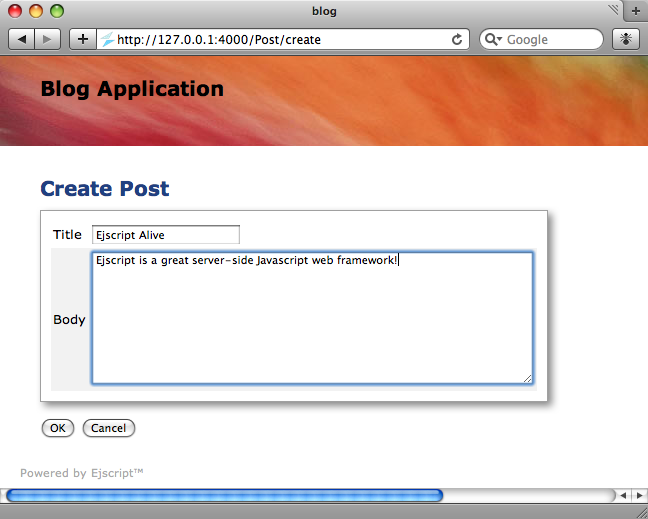
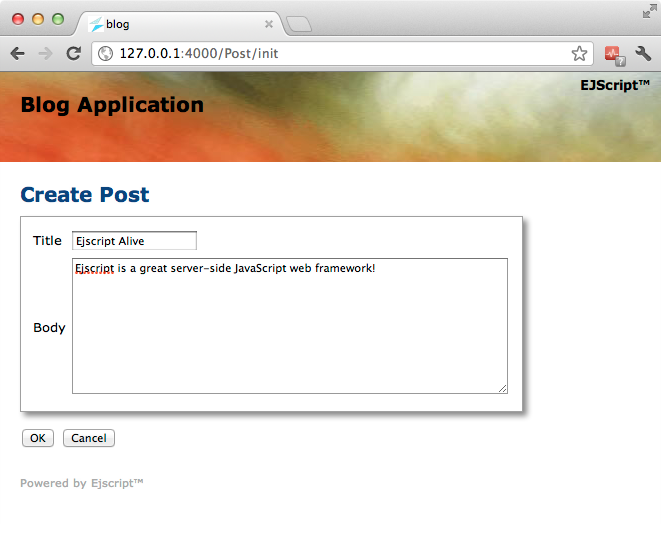
Bring web tour up to date

diff --git a/doc/guide/ejs/web/webTour.html b/doc/guide/ejs/web/webTour.html
@@ -73,7 +73,7 @@
             <p>Command sessions are presented in blue boxes. Output from the system is highlighted in yellow. Bold
             yellow is used to highlight some output of specific interest.</p>
             <h2 class="section"><a id="create"></a>Creating a New Application</h2>
-            <p>To create a new Ejscript application, you will use <b>mvc</b>, the Ejscript application generator
+            <p>To create a new Ejscript application, you will use <em>mvc</em>, the Ejscript application generator
             program. Type the following mvc command in a command terminal window:</p>
             <pre>
 <b>home&gt;</b> mvc -v generate app blog<b>
@@ -111,7 +111,7 @@ Change directory into your application directory: blog
 Then run the web server via: "mvc run"
 and point your browser at: http://localhost::4000/ to view your app.</b>
 </pre>
-            <p>This simple command accomplished quite a bit. It first created a new directory called <b>blog</b> for
+            <p>This simple command accomplished quite a bit. It first created a new directory called <em>blog</em> for
             the application, and then created subdirectories for various parts of the application. Initially, most of
             these directories are empty. They are used as your application grows.</p>
             <p>The command also created an <em>ejsrc</em> configuration file. This allows you to define a
@@ -181,12 +181,12 @@ mvc run
 appweb: 1: Starting host named: "127.0.0.1:4000"
 appweb: 1: HTTP services are ready (single-threaded)</b>
 </pre>
-            <p>Then enter <b>localhost:4000</b> in your browser. You should see your first application home
+            <p>Then enter <em>localhost:4000</em> in your browser. You should see your first application home
             page.</p><img class="bare-screen" src="../../../images/webtour-home.png" alt="" />
             <a id="hello"></a>
             <h2 class="section">Hello World</h2>
-            <p>The next step is to create a simple "Hello World" web page. Ejscript web pages have an <b>.ejs</b>
-            extension. Create a file called <em>hello.ejs</em> under the <b>web</b> directory with the following
+            <p>The next step is to create a simple "Hello World" web page. Ejscript web pages have an <em>.ejs</em>
+            extension. Create a file called <em>hello.ejs</em> in the top-level directory with the following
             content:</p>
             <pre>
 &lt;html&gt;
@@ -195,13 +195,13 @@ appweb: 1: HTTP services are ready (single-threaded)</b>
 &lt;/body&gt;
 </pre>
             <p>To view the "Hello" web page in your browser, type in the following url:
-            http://localhost:4000/web/hello.ejs.</p><img src="../../../images/webtour-hello.png" alt="hello" class=
+            http://localhost:4000/hello.ejs.</p><img src="../../../images/webtour-hello.png" alt="hello" class=
             "bare-screen" /> <a id="dynamic"></a>
             <h2 class="section">Dynamic Content</h2>
             <p>While that was fun, the output is static and boring, so let's add some dynamic content. You can embed
             Ejscript expressions by including them inside a special Ejscript web page directive that will be executed
             and converted to HTML before being sent to the client. There are a variety of server-side Ejscript web page
-            directives, the one you'll use first is: <b>&lt;%= expression %&gt;</b>.</p>
+            directives, the one you'll use first is: <em>&lt;%= expression %&gt;</em>.</p>
             <p>To add the current date and time, modify the hello.ejs web page and add the highlighted line:</p>
             <pre>
 &lt;html&gt;
@@ -229,8 +229,8 @@ appweb: 1: HTTP services are ready (single-threaded)</b>
 %&gt;
 </b>&lt;/body&gt;
 </pre>
-            <p>By using the Ejscript statement directive <b>&lt;% code %&gt;</b>, you can embed arbitrary Ejscript
-            statements in your web page. The <b>write</b> function allows you to write arbitrary data which is patched
+            <p>By using the Ejscript statement directive <em>&lt;% code %&gt;</em>, you can embed arbitrary Ejscript
+            statements in your web page. The <em>write</em> function allows you to write arbitrary data which is patched
             back where the directive was defined in the page. See the <a href="views.html">Views and Layouts</a>
             document for full details about all the Ejscript web page directives.</p><a id="views"></a>
             <a id="scaffolds"></a>
@@ -256,43 +256,45 @@ mvc generate scaffold Post title:string body:text
             <p>Now if you set your browser to the URL for the post controller, you will see your post listing screen.
             <img src="../../../images/webtour-postList.png" alt="postList" class="bare-screen" /> <a id="newPosts"></a></p>
             <h2 class="section">Create New Posts</h2>
-            <p>The new post button directs your browser to the <em>/Post/list</em> URL. Behind the scenes, Ejscript
-            parses this URL and identifies "Post" as the name of the controller and "list" as the name of an action to
-            invoke. The controller file <em>controllers/Post.es</em> defines the controller class to respond to this
-            request.</p>
+            <p>The <em>new</em> post button directs your browser to the <em>/Post/init</em> URL. Behind the scenes, Ejscript
+            parses this URL and identifies <em>Post</em> as the name of the controller and <em>init</em> as the name of an action to
+            invoke. The controller file <em>controllers/Post.es</em> defines the controller class to respond to this request.</p>
             <p>The controller class defines methods called actions, that are bound to URLs of the same name. Actions
-            are defined using the <b>action</b> namespace qualifier to distinguish them from ordinary functions. When a
+            are defined using the <em>action</em> namespace qualifier to distinguish them from ordinary functions. When a
             request comes for a given action, the corresponding action method is invoked.</p>
+
             <h3>Actions</h3>
             <p>The job of the action is to respond to the request and generate the response via views for the
-            client.</p>
+            client. Here is a snippet from the controller:</p>
             <pre>
 public class PostController extends BaseController {
     public var post: Post
-    use namespace action
-    action function create() {
-<b>        post = new Post
-        renderView("edit")
+    action function init() {
+<b>         post = new Post
+        writeView("edit")
 </b>    }
-    action function list() {}
 }
 </pre>
-            <p>The <em>create</em> action creates a new Post instance and then uses the <em>views/Post/edit.ejs</em>
+            <p>The <em>init</em> action creates a new Post instance and then uses the <em>views/Post/edit.ejs</em>
             view to generate the response. Ejscript <em>edit</em> scaffolds handle the work of both <em>edit</em> and
             <em>create</em> views because they are so similar.</p>
-            <p>If an action does not call any of the <em>render</em> methods (as the <em>list</em> action does not),
-            Ejscript will automatically invoke a view of the same name. In the case of the <em>list</em> action, the
-            <em>views/Post/list.ejs</em> will be used to generate the response.</p><img src=
+            <p>If an action does not call any of the <em>write</em> methods or if the controller action is not defined
+            (as the <em>index</em> action is not),
+            Ejscript will automatically invoke a view of the same name. 
+            
+            <img src=
             "../../../images/webtour-createPost.png" alt="createPost" class="bare-screen" />
             <p>Click OK to add the new blog post.</p><a id="homePage"></a>
             <h2>Edit the Home Page</h2>
-            <p>You can edit the application's home page to add a link to your post listing page. Change
-            <em>web/index.ejs</em> to contain just the following:</p>
+            <p>You can edit the application's home page to add an anchor link to your post listing page. Change
+            <em>views/Base/index.ejs</em> to contain just the following:</p>
             <pre>
 &lt;%@ layout "default" %&gt;
-&lt;h2&gt;&lt;% link("Go to My Blog", "/post") %&gt;&lt;/h2&gt;
+&lt;h2&gt;&lt;% anchor("Go to My Blog", "/post") %&gt;&lt;/h2&gt;
 </pre>
-            <p>Then reload the page and you will see:</p><img src="../../../images/webtour-homeLink.png" alt="homeLink"
+            <p>Then reload the page and you will see:</p>
+            
+            <img src="../../../images/webtour-homeLink.png" alt="homeLink"
             class="bare-screen" /> <a id="layout"></a>
             <h2>Changing the Layout</h2>
             <p>Alternatively, you may wish to add some tabs to navigate your blog app. Ejscript provides a layout
@@ -303,10 +305,10 @@ public class PostController extends BaseController {
             <pre>
 &lt;body&gt;
     &lt;div class="top"&gt;
-        &lt;h1&gt;&lt;a href="@@appUrl/"&gt;Blog Application&lt;/a&gt;&lt;/h1&gt;
+        &lt;h1&gt;&lt;a href="@@request.home"&gt;Blog Application&lt;/a&gt;&lt;/h1&gt;
 <b>        &lt;% tabs([
-           {"Blog Posts":  appUrl + "/post"},
-            {"New Post": appUrl + "/post/create"},
+           {"Blog Posts":  "@Post"},
+            {"New Post": "@post/init"},
         ]) %&gt;
 </b>    &lt;/div&gt;
 </pre>
@@ -317,15 +319,15 @@ public class PostController extends BaseController {
             recompile the app. This is easy to do via the mvc command.</p>
             <pre>
 mvc compile
-</pre><img src="../../../images/webtour-tabs.png" alt="tabs" class="bare-screen" /> <a id="validations">
-            </a>
+</pre>
+            <img src="../../../images/webtour-tabs.png" alt="tabs" class="bare-screen" /> 
+            <a id="validations"></a>
             <h2 class="section">Validations</h2>
             <p>Ejscript provides flexible validation methods to help ensure the data you save is correct.</p>
             <p>You can add calls to validate model data before it is saved to the database. Edit the
             <em>models/Post.es</em> file and add calls to <em>validatePresence</em> and <em>validateUnique</em>.</p>
             <pre>
 public dynamic class Post implements Record {
-    setup()
 <b>    validatePresence(["title", "body"])
     validateUnique("title")</b>
 </pre>
@@ -339,8 +341,8 @@ public dynamic class Post implements Record {
             fully validate your model data and call <em>error</em> for any fields that are invalid. For example:</p>
             <pre>
 public function validate() {
-    if (post.body.length &gt; 140) {
-        error("body", "Body is too long")
+    if (body.length &gt; 140) {
+        error("body", "too long")
     }
 }
 </pre><a id="learn"></a>
